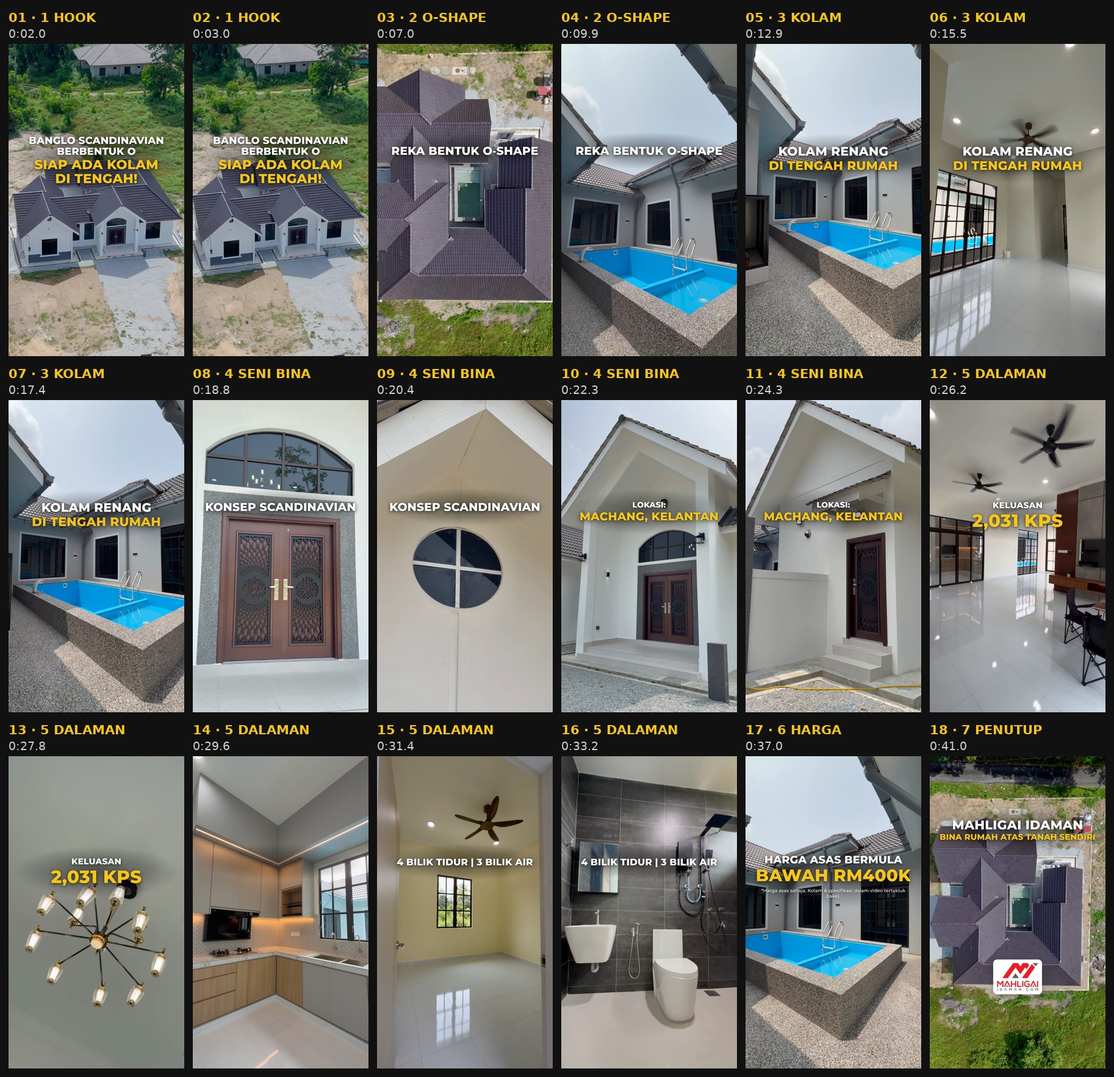
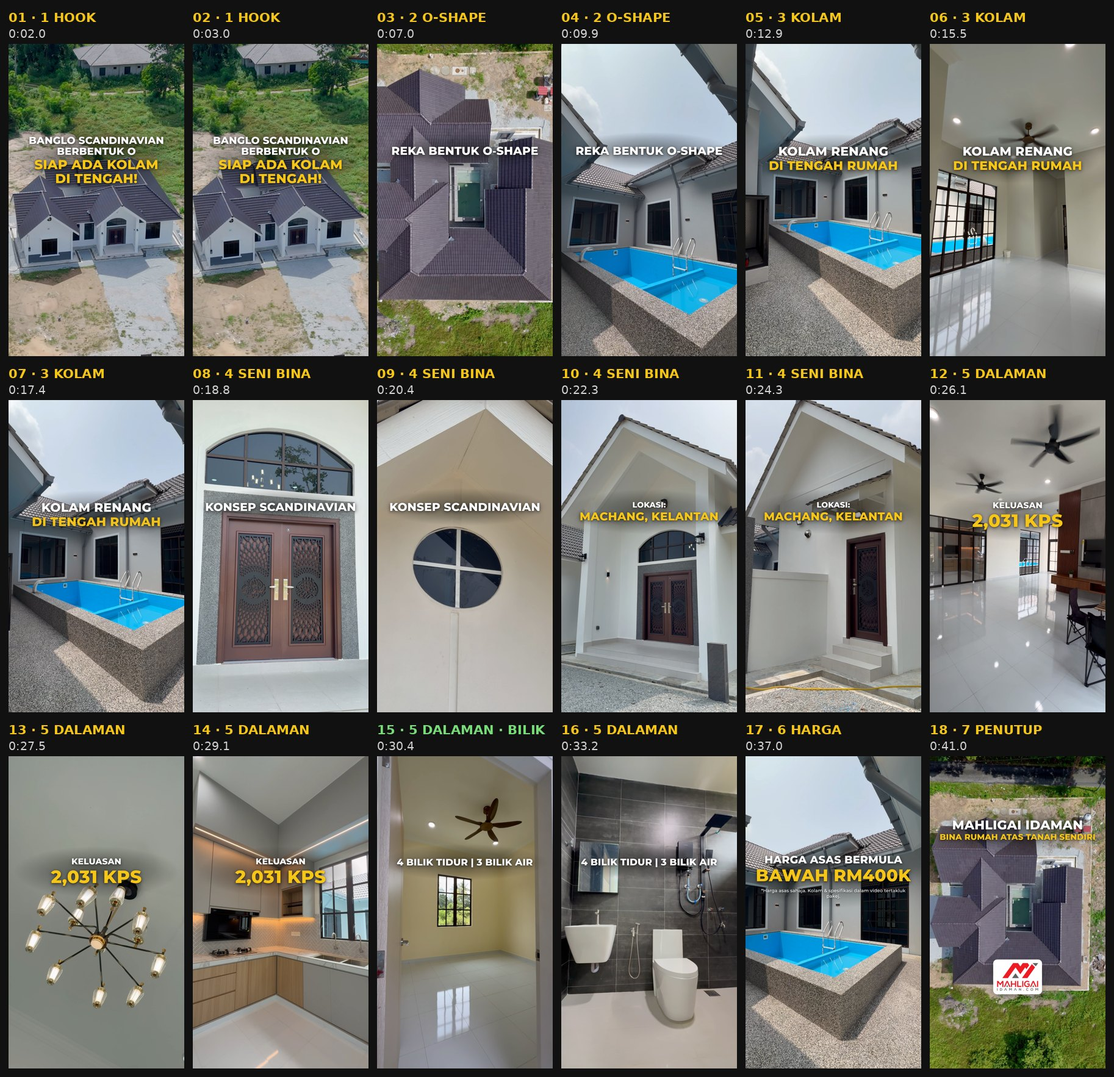
Scandinavian O-Shape: hold the bedroom shot longer
IMG_9121 is the only bedroom clip in the footage; it now runs 2.2 s with
a slow push and lines up with the '4 bilik tidur' caption. Other interior
shots trimmed so the film stays 42.5 s.

Claude-Session: https://claude.ai/code/session_015oQrjwqwCVB9XCEcmTR8w1

diff --git a/scandi-o-machang/index.html b/scandi-o-machang/index.html
@@ -38,13 +38,13 @@
       <!-- side entrance -->
       <video id="s10" class="shot clip" src="assets/src/IMG_9178.MOV" muted playsinline data-start="23.2" data-duration="1.8" data-media-start="4.0" data-track-index="1" data-color-grading='{"preset": "warm-daylight", "intensity": 0.4}' style="z-index:10"></video>
       <!-- living hall pan (60 fps source) -->
-      <video id="s11" class="shot clip" src="assets/src/IMG_9396.MOV" muted playsinline data-start="25.0" data-duration="2.0" data-media-start="3.0" data-track-index="0" data-color-grading='{"preset": "warm-daylight", "intensity": 0.4}' style="z-index:11"></video>
+      <video id="s11" class="shot clip" src="assets/src/IMG_9396.MOV" muted playsinline data-start="25.0" data-duration="1.8" data-media-start="3.0" data-track-index="0" data-color-grading='{"preset": "warm-daylight", "intensity": 0.4}' style="z-index:11"></video>
       <!-- chandelier -->
-      <video id="s12" class="shot clip" src="assets/src/IMG_9174.MOV" muted playsinline data-start="27.0" data-duration="1.4" data-media-start="2.0" data-track-index="1" data-color-grading='{"preset": "warm-daylight", "intensity": 0.4}' style="z-index:12"></video>
+      <video id="s12" class="shot clip" src="assets/src/IMG_9174.MOV" muted playsinline data-start="26.8" data-duration="1.2" data-media-start="2.0" data-track-index="1" data-color-grading='{"preset": "warm-daylight", "intensity": 0.4}' style="z-index:12"></video>
       <!-- kitchen -->
-      <video id="s13" class="shot clip" src="assets/src/IMG_9093.MOV" muted playsinline data-start="28.4" data-duration="2.0" data-media-start="0.0" data-track-index="0" data-color-grading='{"preset": "warm-daylight", "intensity": 0.4}' style="z-index:13"></video>
-      <!-- bedroom -->
-      <video id="s14" class="shot clip" src="assets/src/IMG_9121.MOV" muted playsinline data-start="30.4" data-duration="1.6" data-media-start="0.0" data-track-index="1" data-color-grading='{"preset": "warm-daylight", "intensity": 0.4}' style="z-index:14"></video>
+      <video id="s13" class="shot clip" src="assets/src/IMG_9093.MOV" muted playsinline data-start="28.0" data-duration="1.8" data-media-start="0.0" data-track-index="0" data-color-grading='{"preset": "warm-daylight", "intensity": 0.4}' style="z-index:13"></video>
+      <!-- bedroom: the only bedroom clip, held longer with a slow push -->
+      <video id="s14" class="shot clip" src="assets/src/IMG_9121.MOV" muted playsinline data-start="29.8" data-duration="2.2" data-media-start="0.0" data-playback-rate="0.8" data-track-index="1" data-color-grading='{"preset": "warm-daylight", "intensity": 0.4}' style="z-index:14"></video>
       <!-- bathroom -->
       <video id="s15" class="shot clip" src="assets/src/IMG_9147.MOV" muted playsinline data-start="32.0" data-duration="2.0" data-media-start="0.5" data-track-index="0" data-color-grading='{"preset": "warm-daylight", "intensity": 0.4}' style="z-index:15"></video>
       <!-- pool wide, slow push -->
@@ -64,13 +64,13 @@
       <div id="konsep" data-composition-id="konsep" data-composition-src="compositions/konsep.html" data-start="18.2" data-duration="3.1" data-track-index="6" data-track-kind="graphics" data-width="1080" data-height="1920" style="z-index:63"></div>
       <div id="lokasi" data-composition-id="lokasi" data-composition-src="compositions/lokasi.html" data-start="21.4" data-duration="3.5" data-track-index="5" data-track-kind="graphics" data-width="1080" data-height="1920" style="z-index:64"></div>
       <div id="kps" data-composition-id="kps" data-composition-src="compositions/kps.html" data-start="25.2" data-duration="4.3" data-track-index="6" data-track-kind="graphics" data-width="1080" data-height="1920" style="z-index:65"></div>
-      <div id="bilik" data-composition-id="bilik" data-composition-src="compositions/bilik.html" data-start="29.6" data-duration="4.3" data-track-index="5" data-track-kind="graphics" data-width="1080" data-height="1920" style="z-index:66"></div>
+      <div id="bilik" data-composition-id="bilik" data-composition-src="compositions/bilik.html" data-start="29.9" data-duration="4.0" data-track-index="5" data-track-kind="graphics" data-width="1080" data-height="1920" style="z-index:66"></div>
       <div id="harga" data-composition-id="harga" data-composition-src="compositions/harga.html" data-start="34.3" data-duration="4.6" data-track-index="6" data-track-kind="graphics" data-width="1080" data-height="1920" style="z-index:67"></div>
       <div id="ending" data-composition-id="ending" data-composition-src="compositions/ending.html" data-start="39.3" data-duration="3.2" data-track-index="5" data-track-kind="graphics" data-width="1080" data-height="1920" style="z-index:68"></div>
     </div>
     <script>
       const tl = gsap.timeline({ paused: true });
-      const shots = [["s01", 0.0, 5.0, 1.0, 1.06, false, false], ["s02", 5.0, 3.3, 1.0, 1.03, true, false], ["s03", 8.3, 2.7, 1.0, 1.03, false, false], ["s04", 11.0, 3.2, 1.0, 1.04, false, false], ["s05", 14.2, 2.2, 1.0, 1.04, false, false], ["s06", 16.4, 1.6, 1.03, 1.06, false, false], ["s07", 18.0, 1.4, 1.0, 1.04, false, false], ["s08", 19.4, 1.6, 1.0, 1.04, false, false], ["s09", 21.0, 2.2, 1.0, 1.04, false, false], ["s10", 23.2, 1.8, 1.0, 1.04, false, false], ["s11", 25.0, 2.0, 1.0, 1.04, false, false], ["s12", 27.0, 1.4, 1.0, 1.04, false, false], ["s13", 28.4, 2.0, 1.0, 1.04, false, false], ["s14", 30.4, 1.6, 1.0, 1.04, false, false], ["s15", 32.0, 2.0, 1.0, 1.04, false, false], ["s16", 34.0, 5.0, 1.0, 1.06, true, false], ["s17", 39.0, 3.5, 1.0, 1.03, true, false]];
+      const shots = [["s01", 0.0, 5.0, 1.0, 1.06, false, false], ["s02", 5.0, 3.3, 1.0, 1.03, true, false], ["s03", 8.3, 2.7, 1.0, 1.03, false, false], ["s04", 11.0, 3.2, 1.0, 1.04, false, false], ["s05", 14.2, 2.2, 1.0, 1.04, false, false], ["s06", 16.4, 1.6, 1.03, 1.06, false, false], ["s07", 18.0, 1.4, 1.0, 1.04, false, false], ["s08", 19.4, 1.6, 1.0, 1.04, false, false], ["s09", 21.0, 2.2, 1.0, 1.04, false, false], ["s10", 23.2, 1.8, 1.0, 1.04, false, false], ["s11", 25.0, 1.8, 1.0, 1.04, false, false], ["s12", 26.8, 1.2, 1.0, 1.04, false, false], ["s13", 28.0, 1.8, 1.0, 1.04, false, false], ["s14", 29.8, 2.2, 1.0, 1.07, false, false], ["s15", 32.0, 2.0, 1.0, 1.04, false, false], ["s16", 34.0, 5.0, 1.0, 1.06, true, false], ["s17", 39.0, 3.5, 1.0, 1.03, true, false]];
       shots.forEach(([id, s, d, z0, z1, dissolve, rotated]) => {
         if (rotated) {
           // local y is screen x after the quarter turn: drift slowly across the facade

diff --git a/scandi-o-machang/compositions/bilik.html b/scandi-o-machang/compositions/bilik.html
@@ -11,14 +11,14 @@
     #bilik-blk { top:620px; }
   </style>
   <div id="root" data-composition-id="bilik" data-width="1080" data-height="1920">
-    <div id="bilik-blk" class="blk clip" data-start="0" data-duration="4.3" data-track-index="0">
+    <div id="bilik-blk" class="blk clip" data-start="0" data-duration="4.0" data-track-index="0">
       <div id="bilik-1" class="ln" style="color:#FFFFFF;font-size:58px">4 BILIK TIDUR | 3 BILIK AIR</div>
     </div>
   </div>
   <script>
     const tl = gsap.timeline({ paused: true });
     tl.fromTo("#bilik-1", { opacity:0, y:24, scale:0.96 }, { opacity:1, y:0, scale:1, duration:0.7, ease:"power2.out" }, 0.0);
-    tl.to("#bilik-blk", { opacity:0, duration:0.35, ease:"sine.in" }, 3.9);
+    tl.to("#bilik-blk", { opacity:0, duration:0.35, ease:"sine.in" }, 3.6);
     window.__timelines["bilik"] = tl;
   </script>
 </template>

diff --git a/scandi-o-machang/build.py b/scandi-o-machang/build.py
@@ -30,10 +30,10 @@ SHOTS = [
     (2.2, "IMG_9044.MOV", 0.0, 1, 1.00, 1.04, "entrance porch, low angle"),
     (1.8, "IMG_9178.MOV", 4.0, 1, 1.00, 1.04, "side entrance"),
     # 5 Interior 25-34
-    (2.0, "IMG_9396.MOV", 3.0, 1, 1.00, 1.04, "living hall pan (60 fps source)"),
-    (1.4, "IMG_9174.MOV", 2.0, 1, 1.00, 1.04, "chandelier"),
-    (2.0, "IMG_9093.MOV", 0.0, 1, 1.00, 1.04, "kitchen"),
-    (1.6, "IMG_9121.MOV", 0.0, 1, 1.00, 1.04, "bedroom"),
+    (1.8, "IMG_9396.MOV", 3.0, 1, 1.00, 1.04, "living hall pan (60 fps source)"),
+    (1.2, "IMG_9174.MOV", 2.0, 1, 1.00, 1.04, "chandelier"),
+    (1.8, "IMG_9093.MOV", 0.0, 1, 1.00, 1.04, "kitchen"),
+    (2.2, "IMG_9121.MOV", 0.0, 0.8, 1.00, 1.07, "bedroom: the only bedroom clip, held longer with a slow push"),
     (2.0, "IMG_9147.MOV", 0.5, 1, 1.00, 1.04, "bathroom"),
     # 6 Price 34-39
     (5.0, "IMG_9157.MOV", 5.0, 1, 1.00, 1.06, "pool wide, slow push"),
@@ -57,7 +57,7 @@ TEXT = {
     "konsep": (18.2, 3.1, 620, [("KONSEP SCANDINAVIAN", "w", 70)], None),
     "lokasi": (21.4, 3.5, 620, [("LOKASI:", "w", 48), ("MACHANG, KELANTAN", "y", 70)], None),
     "kps": (25.2, 4.3, 620, [("KELUASAN", "w", 52), ("2,031 KPS", "y", 110)], None),
-    "bilik": (29.6, 4.3, 620, [("4 BILIK TIDUR | 3 BILIK AIR", "w", 58)], None),
+    "bilik": (29.9, 4.0, 620, [("4 BILIK TIDUR | 3 BILIK AIR", "w", 58)], None),
     "harga": (34.3, 4.6, 600, [("HARGA ASAS BERMULA", "w", 66), ("BAWAH RM400K", "y", 104)],
               "*Harga asas sahaja. Kolam & spesifikasi dalam video tertakluk pakej."),
     "ending": (39.3, TOTAL - 39.3, 380, [("MAHLIGAI IDAMAN", "w", 78), ("BINA RUMAH ATAS TANAH SENDIRI", "y", 50)], "logo"),
